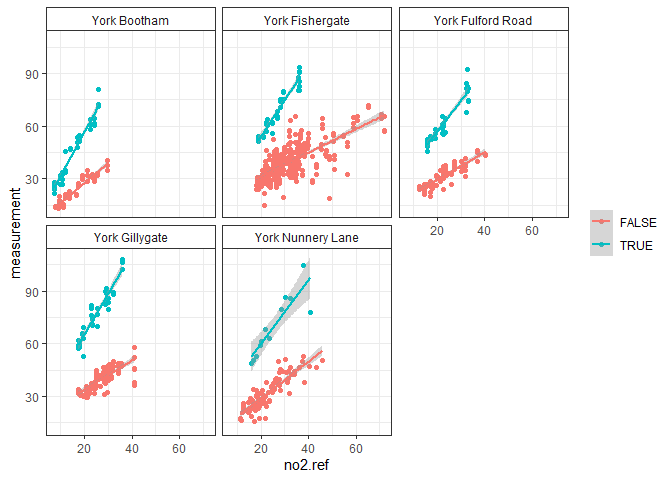
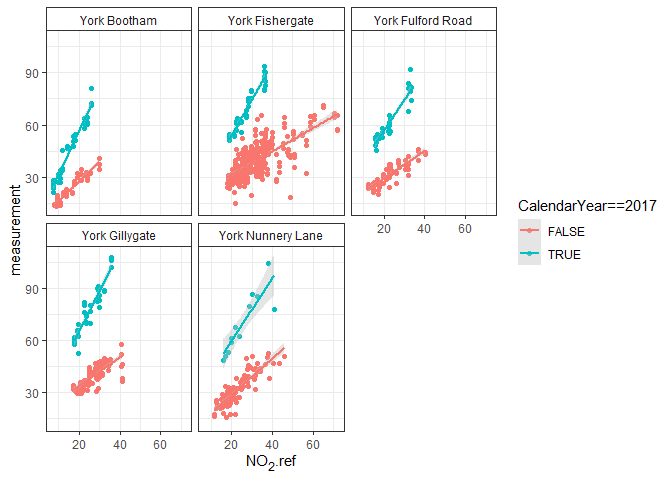
readme update

diff --git a/README.md b/README.md
@@ -14,7 +14,7 @@ quality assessment exercises.
 ## Installation
 
 Get developer’s version of **DTEval** from [GitHub](https://github.com)
-([archive](https://github.com/karlropkins/AQEval)) \[currently
+([archive](https://github.com/karlropkins/DTEval)) \[currently
 PRIVATE\]:
 
 ``` r
@@ -42,7 +42,14 @@ Contributions are very welcome.
 
 GPL-3
 
+## Introduction Slides
+
+[currently
+here](https://github.com/karlropkins/DTEval/blob/main/docs/slides/DTEval-Introduction.pdf)
+
 ## Example
+
+(using unpackaged data…)
 
 ``` r
 require(DTEval)
@@ -71,9 +78,12 @@ ref.york <- dplyr::bind_rows(
 #https://data.yorkopendata.org/dataset/diffusion-tubes-data 
 #(downloaded 2024-12-02)
 
+dt.york <- dont.share::dt.york
+
 testTubeAccuracy(dt.york, ref.york, 
                  tube="measurement", ref="no2", 
                  facet="site.ref", 
+                 col="CalendarYear==2017",
                  group="CalendarYear==2017")
 ```
 